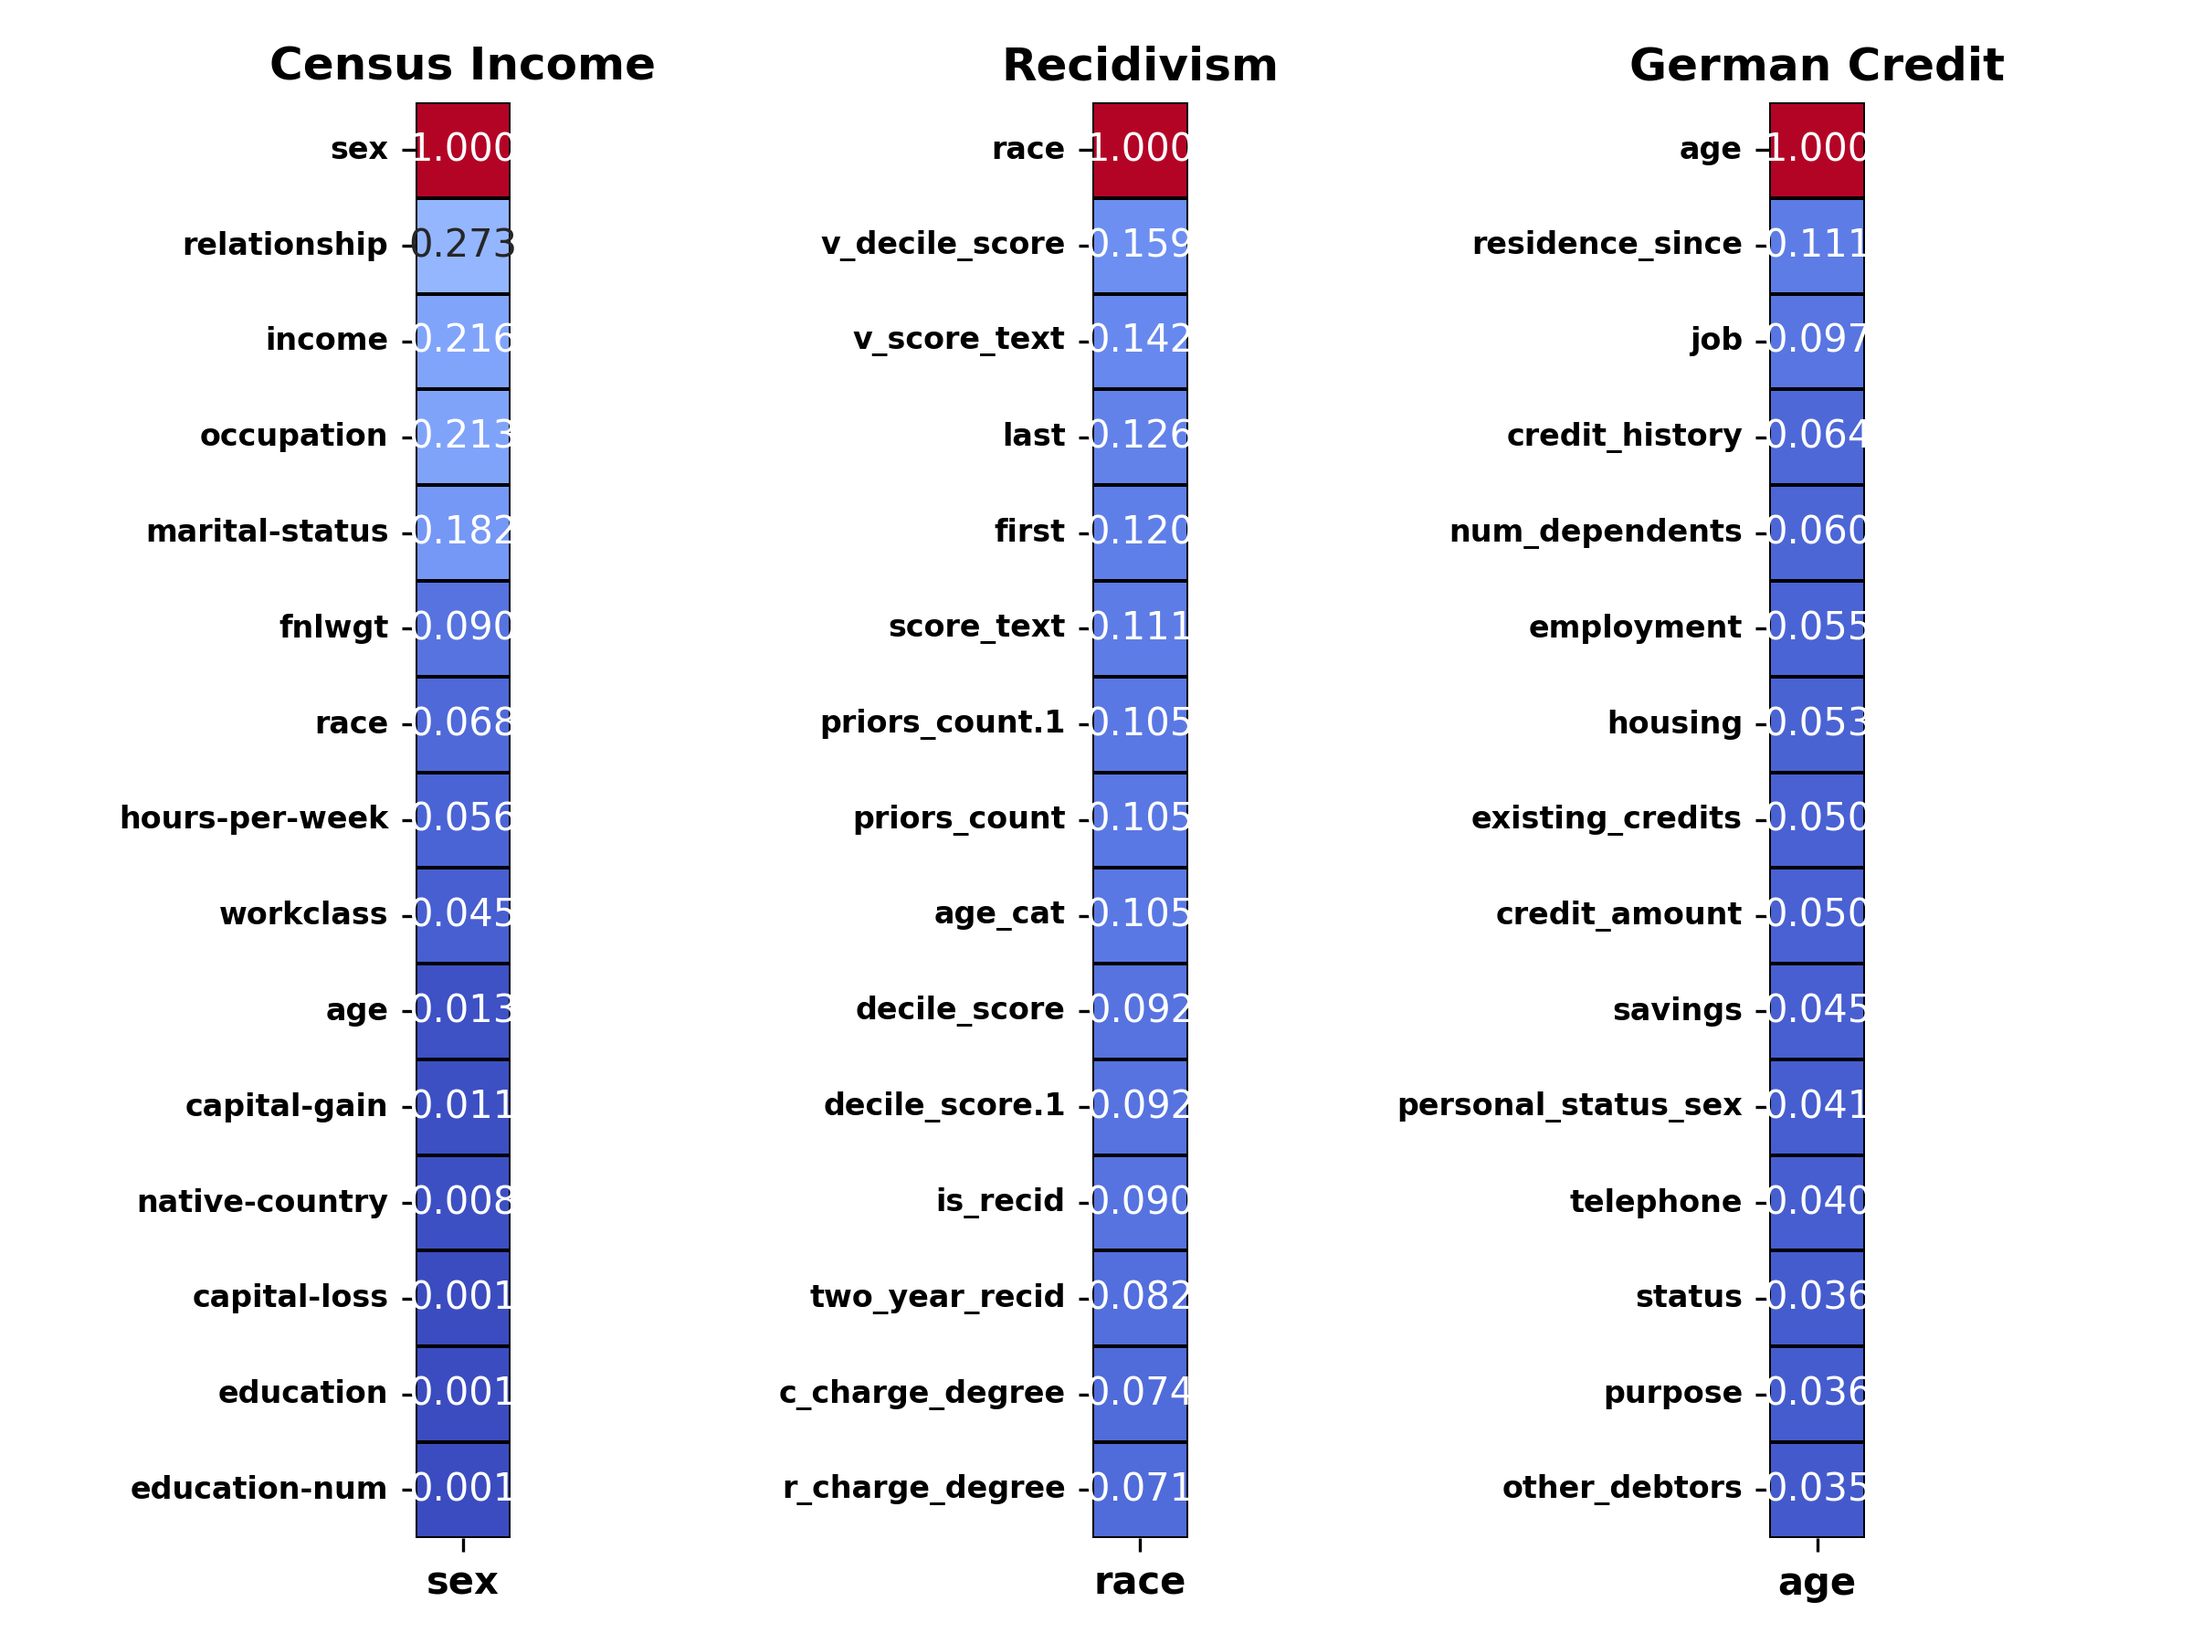
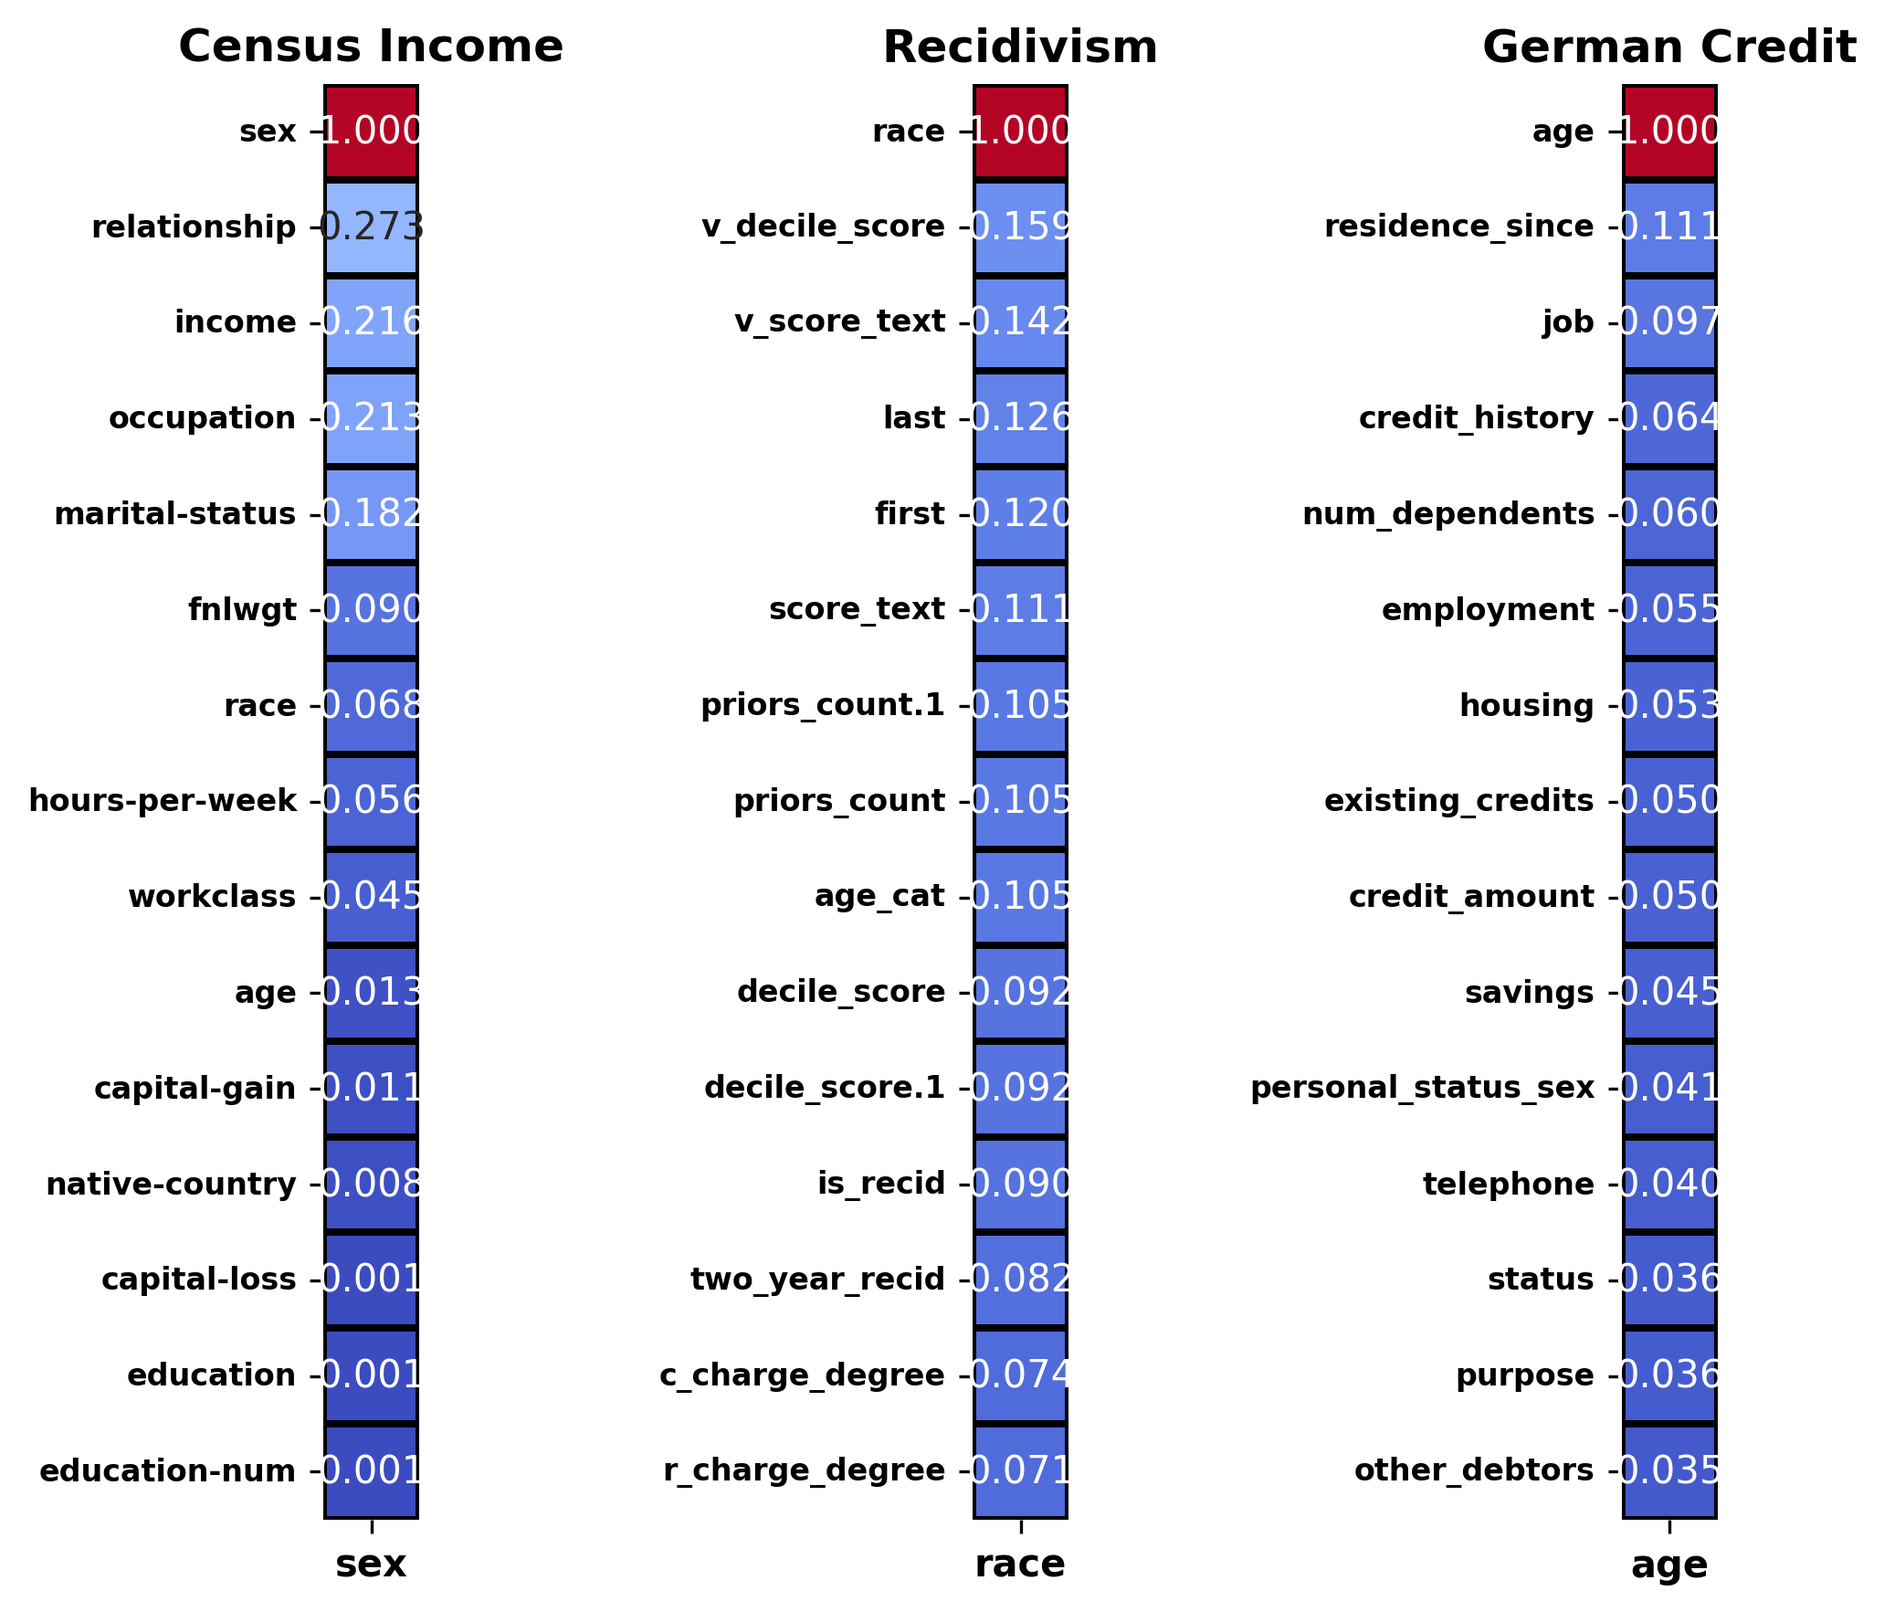
Updated results further based on updated results

Changed region(s): [[0.6205, 0.0, 0.9927, 0.9972], [0.3413, 0.0, 0.6205, 0.9972], [0.031, 0.0, 0.3102, 0.9972]]

diff --git a/datasets/dataset_info/correlation_testing.py b/datasets/dataset_info/correlation_testing.py
@@ -53,11 +53,11 @@ for i, (ax, (dataset_name, sensitive_attr, correlations)) in enumerate(zip(axes,
         annot=True,
         fmt='.3f',  # Format numbers to 3 decimal places
         cmap="coolwarm",
-        vmin=0, vmax=1,  # Pearson correlation absolute values
+        vmin=0, vmax=max(correlations[:-2]),  # Pearson correlation absolute values
         xticklabels=[sensitive_attr],
         yticklabels=[f"{name}" for name in correlations.index],  # Add the attribute name on the left
         cbar=False,
-        linewidths=0.5,
+        linewidths=1.5,
         linecolor='black',
         ax=ax,
         square=True  # Ensure the heatmap cells are square
@@ -66,7 +66,8 @@ for i, (ax, (dataset_name, sensitive_attr, correlations)) in enumerate(zip(axes,
     ax.set_xticklabels(ax.get_xticklabels(), fontsize=10, fontweight='bold', color='black')
     ax.set_yticklabels(ax.get_yticklabels(), fontsize=8, fontweight='bold', rotation=0, color='black')
 
-plt.tight_layout()
-plt.savefig('heatmaps.png', dpi=300)
+plt.tight_layout()  # Adjust layout before saving
+plt.gcf().tight_layout()  # Recalculate tight layout before saving
+plt.savefig('heatmaps.png', dpi=300, bbox_inches='tight')  # Save with tight bounding box
 
 plt.show()

diff --git a/adaptive_masking/adaptivebaseline.py b/adaptive_masking/adaptivebaseline.py
@@ -21,7 +21,7 @@ class AdaptiveBaseline:
     def __init__(self, model: Union[LogisticRegression, RandomForestClassifier], bias_metric: Callable,
                  threshold: float, sensitive_attribute: str,
                  batching_function: Callable[[pd.DataFrame, str, str, int], list] = batching_strats[-1],
-                 mask: int = 0, batch_size: int = 96, masking_strategy = masking_strats[0]) -> None:
+                 mask: int = -1, batch_size: int = 96, masking_strategy = masking_strats[0]) -> None:
 
         """
             Parameters:
